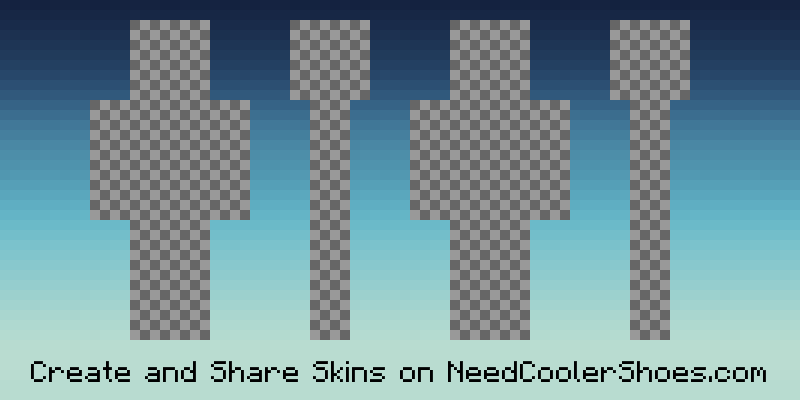
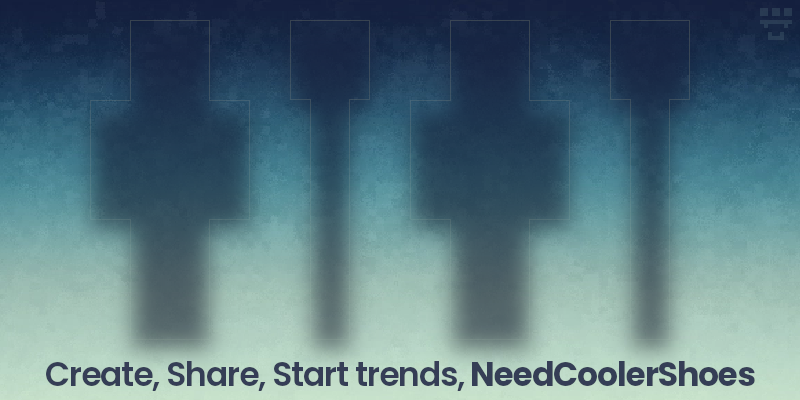
feat: The skin embed now has a properly scaled outer layer + redesign

diff --git a/app/models/concerns/skin_transformations.rb b/app/models/concerns/skin_transformations.rb
@@ -108,45 +108,91 @@ module SkinTransformations
   ]
 
   UV_ALL_SIDES_CLASSIC = [
-    {uv: %i[face face_overlay], coordinates: [4, 0]},
-    {uv: %i[face_back face_overlay_back], coordinates: [36, 0]},
-    {uv: %i[face_right face_overlay_right], coordinates: [20, 0]},
-    {uv: %i[face_left face_overlay_left], coordinates: [52, 0]},
-    {uv: %i[torso torso_overlay], coordinates: [4, 8]},
-    {uv: %i[torso_back torso_overlay_back], coordinates: [36, 8]},
-    {uv: %i[right_arm right_arm_overlay], coordinates: [0, 8]},
-    {uv: %i[right_arm_back right_arm_overlay_back], coordinates: [44, 8]},
-    {uv: %i[right_arm_right right_arm_overlay_right], coordinates: [22, 8]},
-    {uv: %i[left_arm left_arm_overlay], coordinates: [12, 8]},
-    {uv: %i[left_arm_back left_arm_overlay_back], coordinates: [32, 8]},
-    {uv: %i[left_arm_left left_arm_overlay_left], coordinates: [54, 8]},
-    {uv: %i[right_leg right_leg_overlay], coordinates: [4, 20]},
-    {uv: %i[right_leg_back right_leg_overlay_back], coordinates: [40, 20]},
-    {uv: %i[right_leg_right right_leg_overlay_right], coordinates: [22, 20]},
-    {uv: %i[left_leg left_leg_overlay], coordinates: [8, 20]},
-    {uv: %i[left_leg_back left_leg_overlay_back], coordinates: [36, 20]},
-    {uv: %i[left_leg_left left_leg_overlay_left], coordinates: [54, 20]}
+    {uv: %i[right_leg], coordinates: [43, 205], scale: [40, 120]},
+    {uv: %i[right_leg_overlay], coordinates: [40, 202], scale: [46, 126]},
+    {uv: %i[right_leg_back], coordinates: [403, 205], scale: [40, 120]},
+    {uv: %i[right_leg_overlay_back], coordinates: [400, 202], scale: [46, 126]},
+    {uv: %i[right_leg_right], coordinates: [223, 205], scale: [40, 120]},
+    {uv: %i[right_leg_overlay_right], coordinates: [220, 202], scale: [46, 126]},
+    
+    {uv: %i[left_leg], coordinates: [83, 205], scale: [40, 120]},
+    {uv: %i[left_leg_overlay], coordinates: [80, 202], scale: [46, 126]},
+    {uv: %i[left_leg_back], coordinates: [363, 205], scale: [40, 120]},
+    {uv: %i[left_leg_overlay_back], coordinates: [360, 202], scale: [46, 126]},
+    {uv: %i[left_leg_left], coordinates: [543, 205], scale: [40, 120]},
+    {uv: %i[left_leg_overlay_left], coordinates: [540, 202], scale: [46, 126]},
+    
+    {uv: %i[right_arm], coordinates: [3, 85], scale: [40, 120]},
+    {uv: %i[right_arm_overlay], coordinates: [0, 82], scale: [46, 126]},
+    {uv: %i[right_arm_back], coordinates: [443, 85], scale: [40, 120]},
+    {uv: %i[right_arm_overlay_back], coordinates: [440, 82], scale: [46, 126]},
+    {uv: %i[right_arm_right], coordinates: [223, 85], scale: [40, 120]},
+    {uv: %i[right_arm_overlay_right], coordinates: [220, 82], scale: [46, 126]},
+    
+    {uv: %i[left_arm], coordinates: [123, 85], scale: [40, 120]},
+    {uv: %i[left_arm_overlay], coordinates: [120, 82], scale: [46, 126]},
+    {uv: %i[left_arm_back], coordinates: [323, 85], scale: [40, 120]},
+    {uv: %i[left_arm_overlay_back], coordinates: [320, 82], scale: [46, 126]},
+    {uv: %i[left_arm_left], coordinates: [543, 85], scale: [40, 120]},
+    {uv: %i[left_arm_overlay_left], coordinates: [540, 82], scale: [46, 126]},
+
+    {uv: %i[torso], coordinates: [43, 85], scale: [80, 120]},
+    {uv: %i[torso_overlay], coordinates: [40, 82], scale: [86, 126]},
+    {uv: %i[torso_back], coordinates: [363, 85], scale: [80, 120]},
+    {uv: %i[torso_overlay_back], coordinates: [360, 82], scale: [86, 126]},
+
+    {uv: %i[face], coordinates: [43, 5], scale: [80, 80]},
+    {uv: %i[face_overlay], coordinates: [38, 0], scale: [90,90]},
+    {uv: %i[face_right], coordinates: [203, 5], scale: [80, 80]},
+    {uv: %i[face_overlay_right], coordinates: [198, 0], scale: [90,90]},
+    {uv: %i[face_back], coordinates: [363, 5], scale: [80, 80]},
+    {uv: %i[face_overlay_back], coordinates: [358, 0], scale: [90,90]},
+    {uv: %i[face_left], coordinates: [523, 5], scale: [80, 80]},
+    {uv: %i[face_overlay_left], coordinates: [518, 0], scale: [90,90]},
   ]
 
   UV_ALL_SIDES_SLIM = [
-    {uv: %i[face face_overlay], coordinates: [4, 0]},
-    {uv: %i[face_back face_overlay_back], coordinates: [36, 0]},
-    {uv: %i[face_right face_overlay_right], coordinates: [20, 0]},
-    {uv: %i[face_left face_overlay_left], coordinates: [52, 0]},
-    {uv: %i[torso torso_overlay], coordinates: [4, 8]},
-    {uv: %i[torso_back torso_overlay_back], coordinates: [36, 8]},
-    {uv: %i[right_arm right_arm_overlay], coordinates: [1, 8]},
-    {uv: %i[right_arm_back right_arm_overlay_back], coordinates: [44, 8]},
-    {uv: %i[right_arm_right right_arm_overlay_right], coordinates: [22, 8]},
-    {uv: %i[left_arm left_arm_overlay], coordinates: [12, 8]},
-    {uv: %i[left_arm_back left_arm_overlay_back], coordinates: [33, 8]},
-    {uv: %i[left_arm_left left_arm_overlay_left], coordinates: [54, 8]},
-    {uv: %i[right_leg right_leg_overlay], coordinates: [4, 20]},
-    {uv: %i[right_leg_back right_leg_overlay_back], coordinates: [40, 20]},
-    {uv: %i[right_leg_right right_leg_overlay_right], coordinates: [22, 20]},
-    {uv: %i[left_leg left_leg_overlay], coordinates: [8, 20]},
-    {uv: %i[left_leg_back left_leg_overlay_back], coordinates: [36, 20]},
-    {uv: %i[left_leg_left left_leg_overlay_left], coordinates: [54, 20]}
+    {uv: %i[right_leg], coordinates: [43, 205], scale: [40, 120]},
+    {uv: %i[right_leg_overlay], coordinates: [40, 202], scale: [46, 126]},
+    {uv: %i[right_leg_back], coordinates: [403, 205], scale: [40, 120]},
+    {uv: %i[right_leg_overlay_back], coordinates: [400, 202], scale: [46, 126]},
+    {uv: %i[right_leg_right], coordinates: [223, 205], scale: [40, 120]},
+    {uv: %i[right_leg_overlay_right], coordinates: [220, 202], scale: [46, 126]},
+    
+    {uv: %i[left_leg], coordinates: [83, 205], scale: [40, 120]},
+    {uv: %i[left_leg_overlay], coordinates: [80, 202], scale: [46, 126]},
+    {uv: %i[left_leg_back], coordinates: [363, 205], scale: [40, 120]},
+    {uv: %i[left_leg_overlay_back], coordinates: [360, 202], scale: [46, 126]},
+    {uv: %i[left_leg_left], coordinates: [543, 205], scale: [40, 120]},
+    {uv: %i[left_leg_overlay_left], coordinates: [540, 202], scale: [46, 126]},
+    
+    {uv: %i[right_arm], coordinates: [13, 85], scale: [30, 120]},
+    {uv: %i[right_arm_overlay], coordinates: [10, 82], scale: [36, 126]},
+    {uv: %i[right_arm_back], coordinates: [443, 85], scale: [30, 120]},
+    {uv: %i[right_arm_overlay_back], coordinates: [440, 82], scale: [36, 126]},
+    {uv: %i[right_arm_right], coordinates: [223, 85], scale: [40, 120]},
+    {uv: %i[right_arm_overlay_right], coordinates: [220, 82], scale: [46, 126]},
+    
+    {uv: %i[left_arm], coordinates: [123, 85], scale: [30, 120]},
+    {uv: %i[left_arm_overlay], coordinates: [120, 82], scale: [36, 126]},
+    {uv: %i[left_arm_back], coordinates: [333, 85], scale: [30, 120]},
+    {uv: %i[left_arm_overlay_back], coordinates: [330, 82], scale: [36, 126]},
+    {uv: %i[left_arm_left], coordinates: [543, 85], scale: [40, 120]},
+    {uv: %i[left_arm_overlay_left], coordinates: [540, 82], scale: [46, 126]},
+
+    {uv: %i[torso], coordinates: [43, 85], scale: [80, 120]},
+    {uv: %i[torso_overlay], coordinates: [40, 82], scale: [86, 126]},
+    {uv: %i[torso_back], coordinates: [363, 85], scale: [80, 120]},
+    {uv: %i[torso_overlay_back], coordinates: [360, 82], scale: [86, 126]},
+
+    {uv: %i[face], coordinates: [43, 5], scale: [80, 80]},
+    {uv: %i[face_overlay], coordinates: [38, 0], scale: [90,90]},
+    {uv: %i[face_right], coordinates: [203, 5], scale: [80, 80]},
+    {uv: %i[face_overlay_right], coordinates: [198, 0], scale: [90,90]},
+    {uv: %i[face_back], coordinates: [363, 5], scale: [80, 80]},
+    {uv: %i[face_overlay_back], coordinates: [358, 0], scale: [90,90]},
+    {uv: %i[face_left], coordinates: [523, 5], scale: [80, 80]},
+    {uv: %i[face_overlay_left], coordinates: [518, 0], scale: [90,90]},
   ]
 
   FRONTBACK_MODEL_TO_UV = {
@@ -165,6 +211,12 @@ module SkinTransformations
     uv.each do |data|
       data[:uv].each do |id|
         crop = src.crop(*uvmap[id])
+
+        if part_scale = data[:scale]
+          sx, sy = part_scale
+          crop.resample_nearest_neighbor!((sx).round, (sy).round)
+        end
+        
         img.compose!(crop, *data[:coordinates])
       end
     end

diff --git a/app/models/skin.rb b/app/models/skin.rb
@@ -160,8 +160,8 @@ class Skin < ApplicationRecord
     map_to_image(to_img, *FRONTBACK_MODEL_TO_UV[model.to_sym], size: [36, 32], scale: scale)
   end
 
-  def to_all_sides_img(scale = 10)
-    map_to_image(to_img, *ALL_SIDES_MODEL_TO_UV[model.to_sym], size: [60, 32], scale: scale)
+  def to_all_sides_img(scale = 1)
+    map_to_image(to_img, *ALL_SIDES_MODEL_TO_UV[model.to_sym], size: [608, 328], scale: scale)
   end
 
   def preview_img
@@ -178,7 +178,7 @@ class Skin < ApplicationRecord
     path = SOCIAL_CACHE_PATH.join(filename)
     return path.read if path.exist?
     template_data = ChunkyPNG::Image.from_file("lib/assets/social-preview-#{model}.png")
-    img_data = template_data.compose(to_all_sides_img, 90, 20).to_datastream
+    img_data = template_data.compose(to_all_sides_img, 87, 15).to_datastream
     cache_image_file(path, img_data)
     img_data
   end
